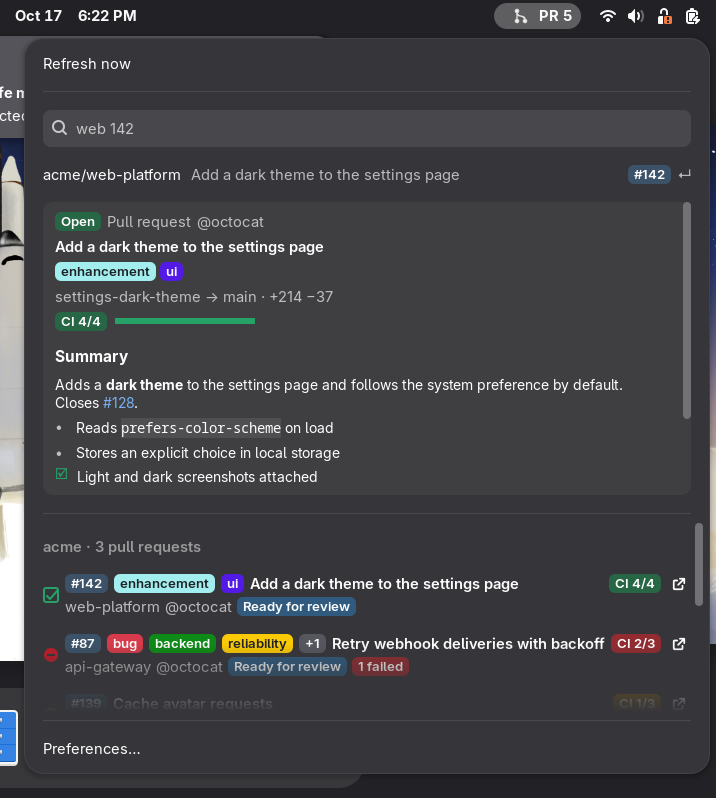
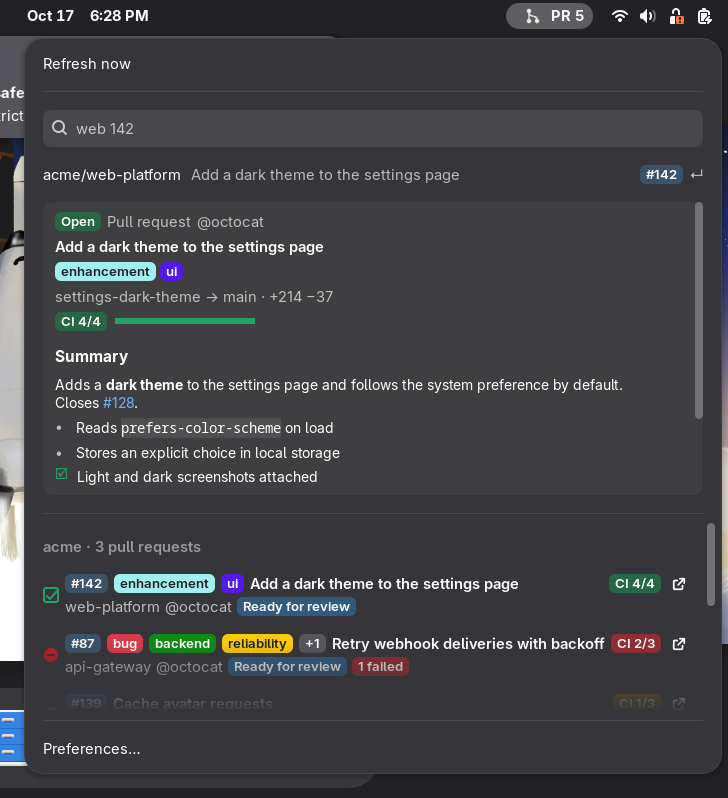
fix: keep the list scrollbar off the pull request rows
The list uses an overlay scrollbar, which was drawn over the last pixels of
every row, on the highlight and right next to the open icon. The list now
keeps a right gutter as wide as the menu's inner padding, so the scrollbar
sits beside the rows and the rows line up with the quick open field.

diff --git a/src/extension.js b/src/extension.js
@@ -714,6 +714,9 @@ export default class GreenlightExtension extends Extension {
             vscrollbar_policy: St.PolicyType.AUTOMATIC,
             overlay_scrollbars: true,
         });
+        // The overlay scrollbar is drawn over the last pixels of the rows, next to their open
+        // icon; this gutter keeps it clear of the rows and lines them up with the quick open field.
+        this._contentSection.box.style = 'padding-right: 12px;';
         this._contentScrollView.set_child(this._contentSection.box);
         this._contentScrollView._delegate = this._contentSection;
         this._contentSection.actor = this._contentScrollView;
